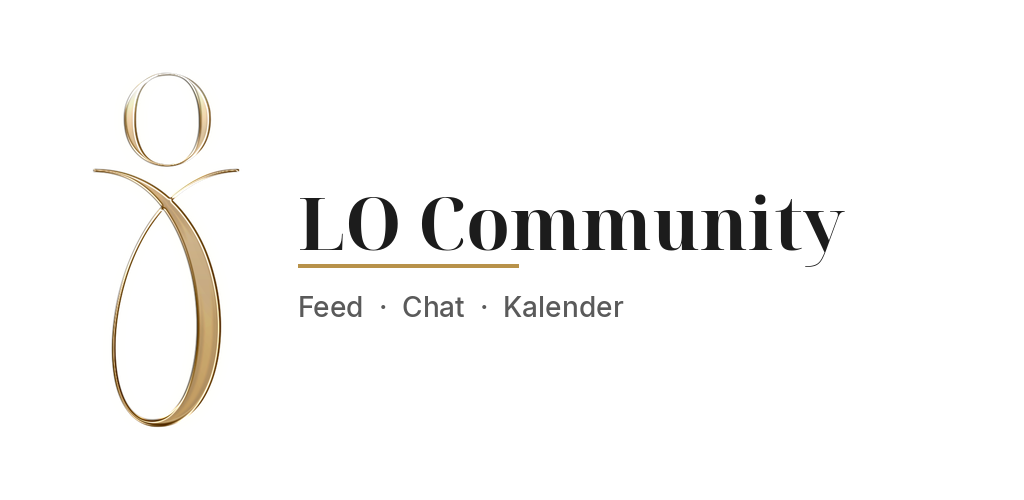
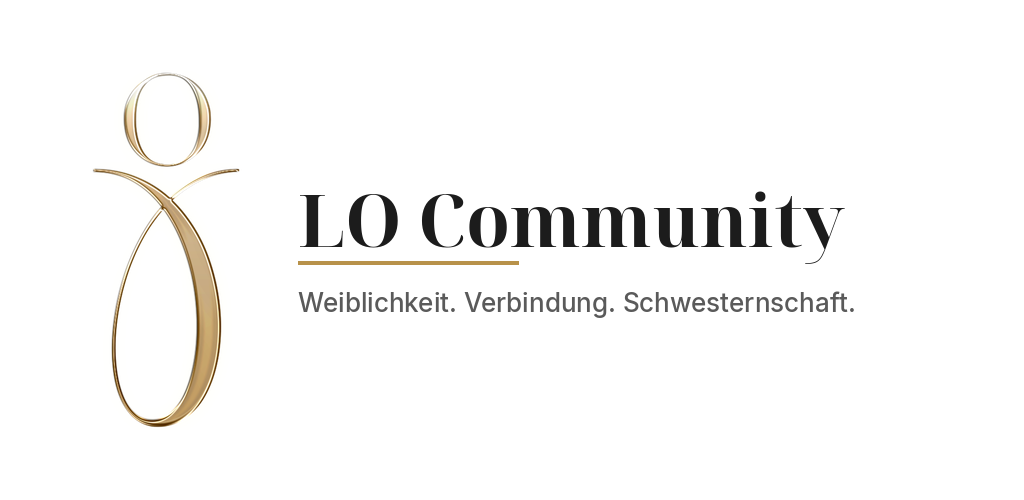
feat(native): set feature graphic tagline to sisterhood line
Replace Feed · Chat · Kalender with Weiblichkeit. Verbindung. Schwesternschaft.

diff --git a/orgasmic-native/ANLEITUNG-ANDROID.md b/orgasmic-native/ANLEITUNG-ANDROID.md
@@ -378,7 +378,7 @@ Paketname `live.lo.community` steht **nicht** auf der Listing-Seite. Den setzt P
    | Feld | Pflicht | Format |
    | --- | --- | --- |
    | **App-Symbol** / App icon | ja | [`orgasmic-native/store/play-icon-512.png`](../store/play-icon-512.png) — **genau 512×512**, Gold auf Weiß, ohne Schrift |
-   | **Feature-Grafik** / Feature graphic | ja | [`orgasmic-native/store/play-feature-1024x500.png`](../store/play-feature-1024x500.png) — **genau 1024×500**, Banner oben im Store (Logo + **LO Community** + Feed · Chat · Kalender) |
+   | **Feature-Grafik** / Feature graphic | ja | [`orgasmic-native/store/play-feature-1024x500.png`](../store/play-feature-1024x500.png) — **genau 1024×500**, Banner oben im Store (Logo + **LO Community** + Weiblichkeit. Verbindung. Schwesternschaft.) |
    | **Handy-Screenshots** / Phone screenshots | ja, **mindestens 2** (bis 8) | JPEG oder PNG, kürzeste Seite mindestens 320 px, längste höchstens 3840 px. z. B. Feed + Chat, Texte im Bild ebenfalls ohne kritische Wörter |
    | Tablet-Screenshots, TV, Wear | nein | weglassen |
 
